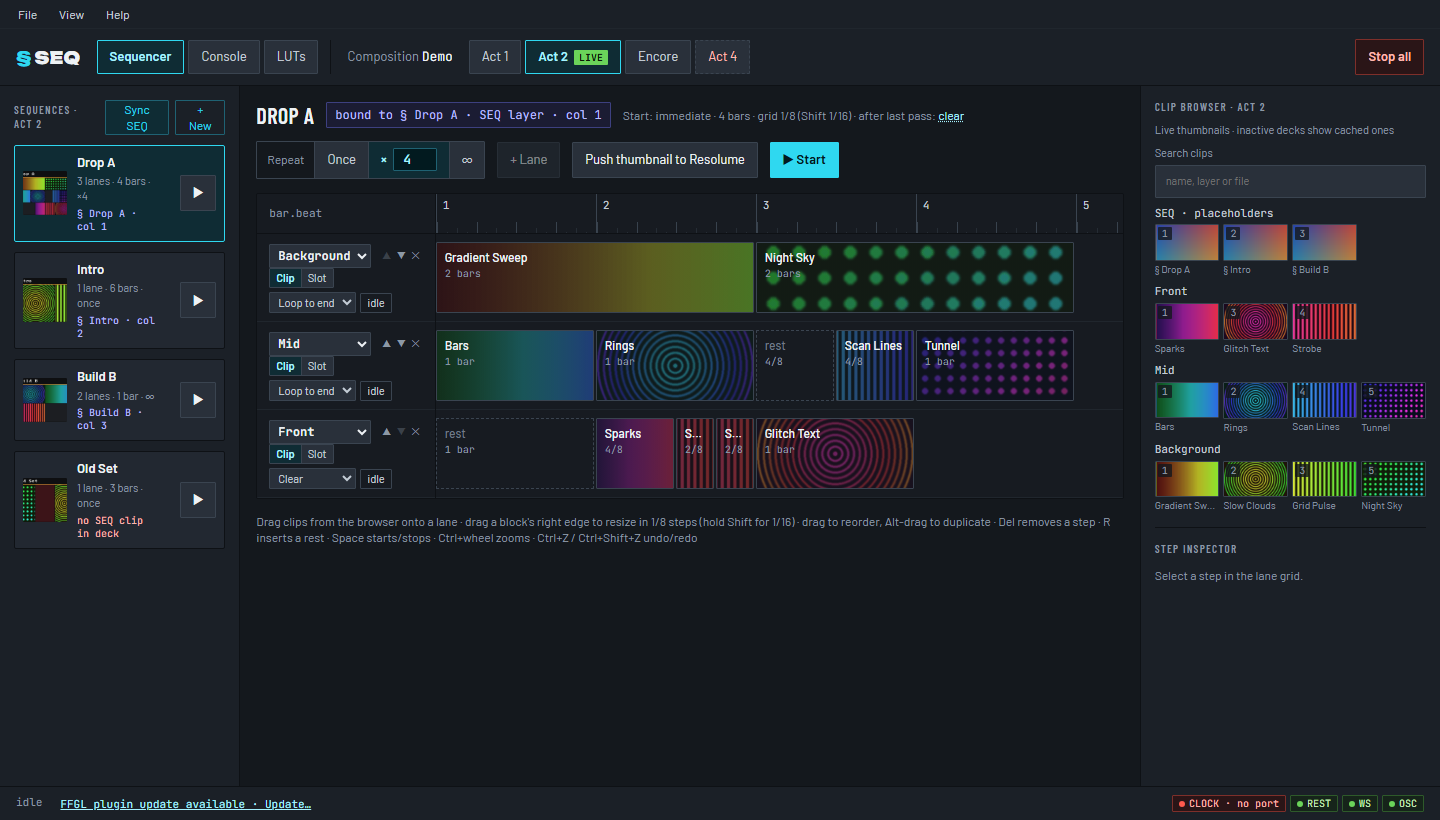
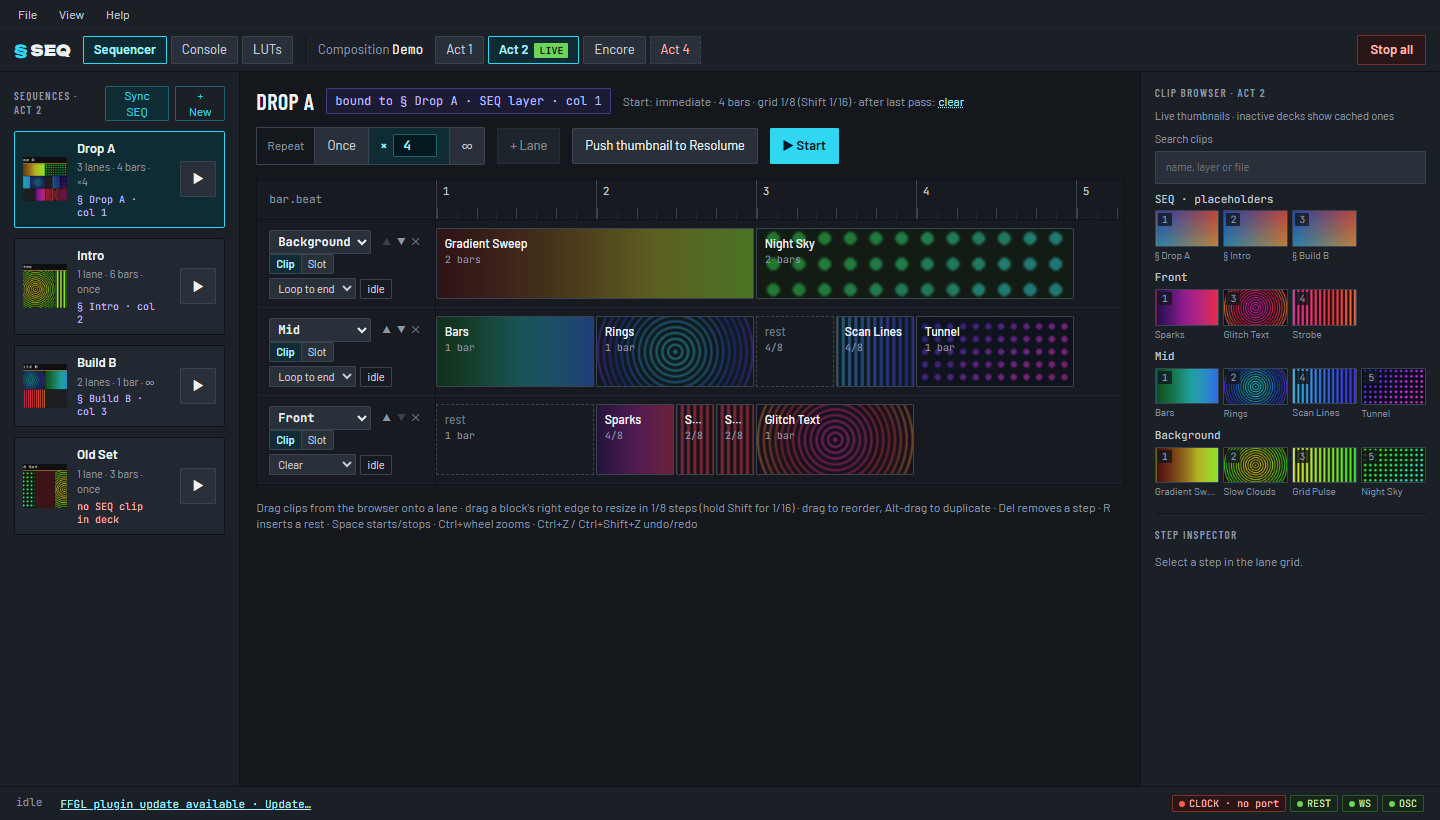
UI: more compact top bar (lower tabs, less padding)

diff --git a/web/src/app.css b/web/src/app.css
@@ -124,6 +124,11 @@ button, input, select { font: inherit; }
 .modal .actions { display: flex; justify-content: flex-end; gap: 8px; }
 
 /* ---- additions (not in the mockup), using tokens only ---- */
+/* Compact top bar (2026-11-22): less padding and lower tabs than the mockup. */
+.topbar { gap: 12px; padding: 6px 14px; }
+.topbar .logo { font-size: 15px; }
+.topbar .tab { min-height: 28px; padding: 0 10px; }
+.topbar .btn { min-height: 30px; }
 .banner { padding: 8px 16px; background: var(--err-bg); color: var(--err-text); border-bottom: 1px solid var(--err-line); font-size: 12px; }
 .body { min-height: 0; }
 .editor { overflow: auto; }
